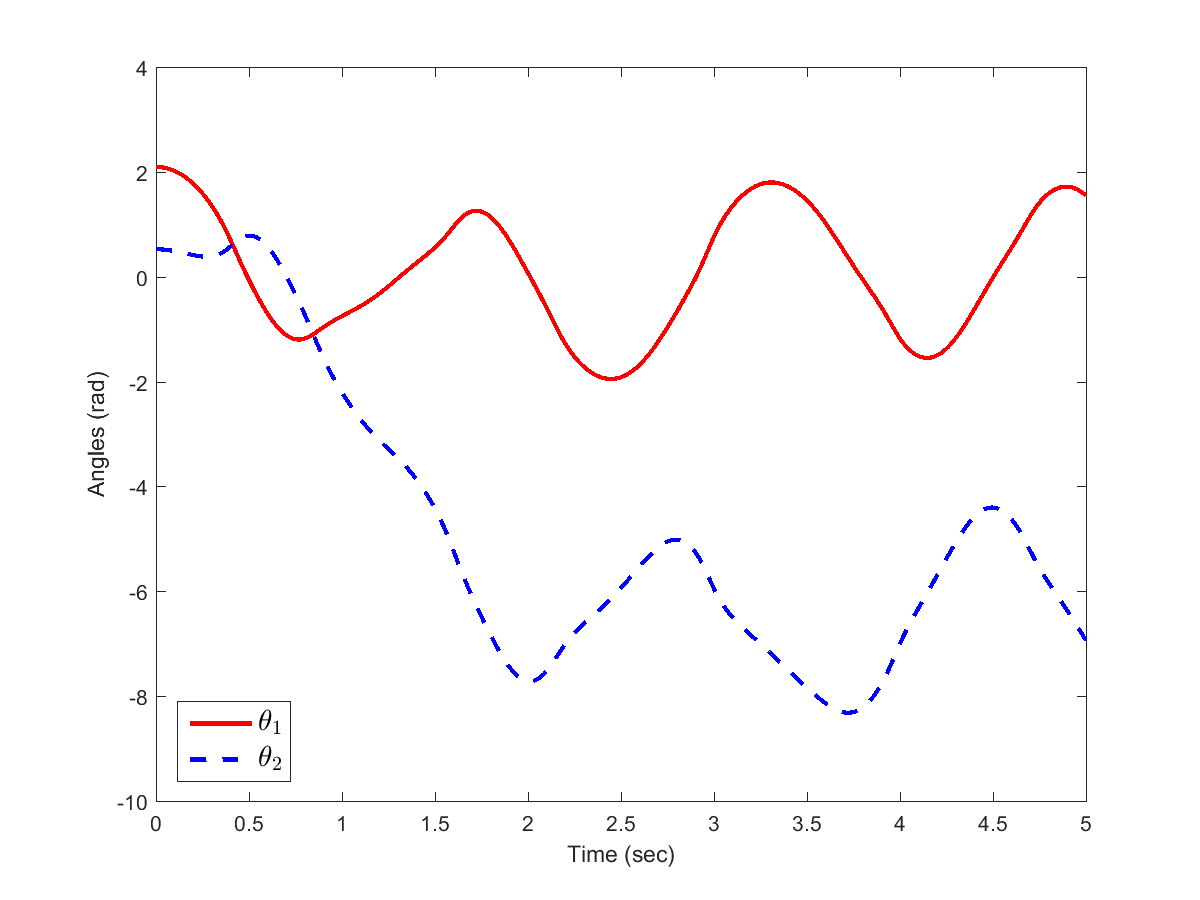
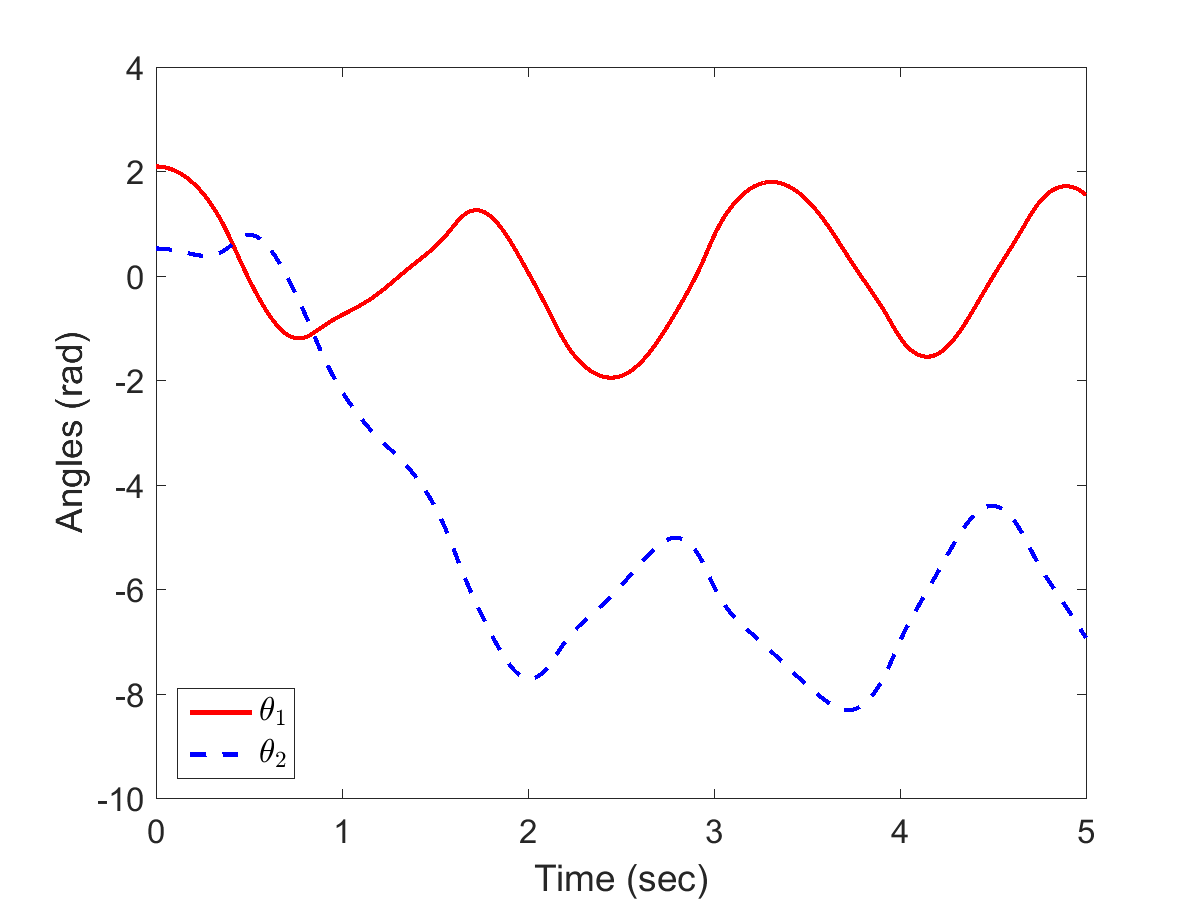
Signed-off-by: Mansour Torabi <mtmansourt@gmail.com>

diff --git a/EVAL1.m b/EVAL1.m
@@ -36,11 +36,11 @@ plot(tt,xx(:,1),'r', 'linewidth',2); hold on; plot(tt,xx(:,2),'--b','linewidth',
 S1 = sprintf('$ \\theta_1$'); 
 S2 = sprintf('$ \\theta_2$');
 H = legend(S1, S2); 
-set(H,'interpreter','latex','fontsize',14,'location','SouthWest');
+set(H,'interpreter','latex','fontsize',16,'location','SouthWest');
 
-xlabel('Time (sec)'); ylabel('Angles (rad)');
-Pos = get(gcf, 'Position');
-set(gcf, 'Position', [Pos(1:2), Pos(3:4)*0.7]);
+hx = xlabel('Time (sec)');   set(hx, 'fontsize', 16);
+hy = ylabel('Angles (rad)'); set(hy, 'fontsize', 16);
+set(gca, 'fontsize', 16);
 saveas(gcf, 'Pic/Ex1.png')
 
 %%
